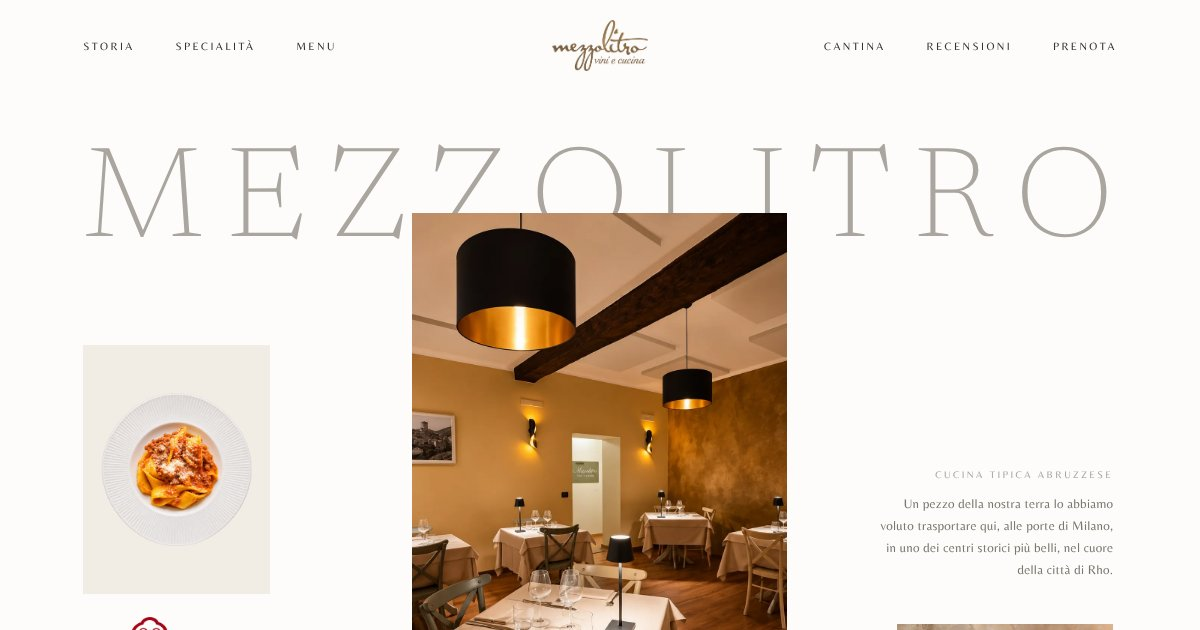
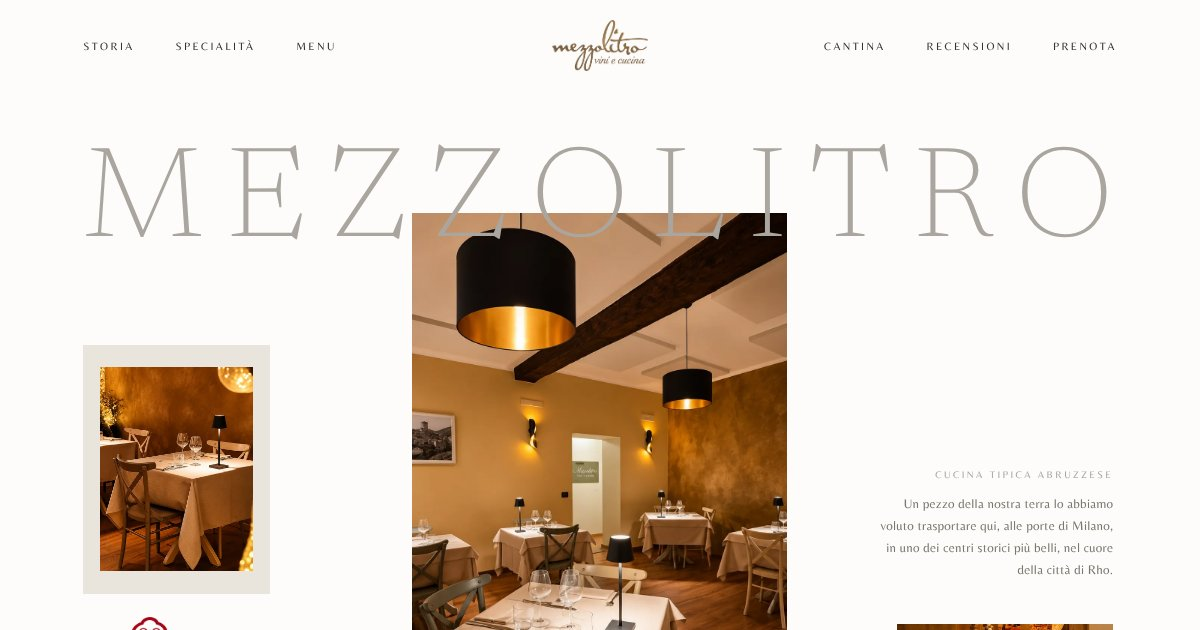
Add files via upload

diff --git a/index.html b/index.html
@@ -36,7 +36,7 @@
       <li><a href="#specialita">Specialità</a></li>
       <li><a href="#menu">Menu</a></li>
     </ul>
-    <a class="nav__logo" href="#top" aria-label="Mezzolitro vini e cucina, torna in alto"><img src="img/logo.webp" alt="Mezzolitro vini e cucina" width="900" height="476"></a>
+    <a class="nav__logo" href="#top" aria-label="Mezzolitro vini e cucina, torna in alto"><img decoding="async" src="img/logo.webp" alt="Mezzolitro vini e cucina" width="900" height="476"></a>
     <ul class="nav__r">
       <li><a href="#cantina">Cantina</a></li>
       <li><a href="#recensioni">Recensioni</a></li>
@@ -47,9 +47,12 @@
 </header>
 <div class="drawer" id="drawer" aria-hidden="true">
   <a href="#storia">La nostra storia</a>
+  <a href="#atmosfera">L’atmosfera</a>
   <a href="#specialita">Le specialità</a>
+  <a href="#dettagli">Nei dettagli</a>
   <a href="#tavola">La tavola</a>
   <a href="#menu">Il menu</a>
+  <a href="#dolci">I dolci</a>
   <a href="#cantina">La cantina</a>
   <a href="#qualita">La qualità</a>
   <a href="#recensioni">Recensioni</a>
@@ -64,13 +67,13 @@
   <h1 class="mega" id="mega" data-split data-fit aria-label="Mezzolitro">Mezzolitro</h1>
 
   <div class="hero__main par" data-speed="-0.05">
-    <figure class="ph" data-reveal><img src="img/hero.webp" alt="La sala di Mezzolitro con le luci calde e i tavoli apparecchiati" width="1000" height="1500" fetchpriority="high"></figure>
+    <figure class="ph" data-reveal><img decoding="async" src="img/hero.webp" alt="La sala di Mezzolitro con le luci calde e i tavoli apparecchiati" width="1000" height="1500" fetchpriority="high"></figure>
   </div>
 
   <div class="hero__award">
-    <figure class="ph ph--cream hero__plate" data-reveal><img src="img/dish-6.webp" alt="Pappardelle al ragù di papera" width="760" height="760"></figure>
+    <figure class="ph ph--cream hero__plate" data-reveal><img decoding="async" src="img/hero-l.webp" alt="Un tavolo apparecchiato con la lampada accesa" width="600" height="800"></figure>
     <div class="hero__awardtxt" data-up>
-      <a class="hero__mich" href="https://guide.michelin.com/en/lombardia/rho/restaurant/mezzolitro-vini-e-cucina" target="_blank" rel="noopener" aria-label="Mezzolitro nella Guida Michelin 2025, Bib Gourmand"><img src="img/michelin.webp" alt="Guida Michelin 2025, Bib Gourmand" width="700" height="488"></a>
+      <a class="hero__mich" href="https://guide.michelin.com/en/lombardia/rho/restaurant/mezzolitro-vini-e-cucina" target="_blank" rel="noopener" aria-label="Mezzolitro nella Guida Michelin 2025, Bib Gourmand"><img decoding="async" src="img/michelin.webp" alt="Guida Michelin 2025, Bib Gourmand" width="700" height="488"></a>
       <p class="tiny">Bib Gourmand<br>Guida Michelin 2025</p>
       <a class="lnk" href="#recensioni"><span>Scopri</span><i></i></a>
     </div>
@@ -79,7 +82,7 @@
   <div class="hero__txt">
     <p class="kick" data-up>Cucina tipica abruzzese</p>
     <p class="tiny r" data-up>Un pezzo della nostra terra lo abbiamo voluto trasportare qui, alle porte di Milano, in uno dei centri storici più belli, nel cuore della città di Rho.</p>
-    <figure class="ph hero__staff" data-reveal><img src="img/staff.webp" alt="Lo staff di Mezzolitro" width="1008" height="516"></figure>
+    <figure class="ph hero__staff" data-reveal><img decoding="async" src="img/hero-r.webp" alt="Calici e lampada sul tavolo, sullo sfondo la nicchia della sala" width="780" height="503"></figure>
   </div>
 </section>
 
@@ -93,10 +96,23 @@
     <p>Le ricette delle nonne, i profumi e i sapori delle case d’Abruzzo, quel lento cuocere del sugo per ore e ore rivivono da “Mezzolitro vini e cucina”, quel mezzolitro che accompagnava i piatti, preparati con rispetto e tradizione, nelle piccole cantine abruzzesi, dove, ciò che in quel momento la stagione offriva, diveniva elemento principale del piatto.</p>
     <a class="lnk" href="#menu"><span>Scopri il menu</span><i></i></a>
   </div>
-  <div class="coll">
-    <div class="par c1" data-speed="0.06"><figure class="ph" data-reveal><img src="img/storia-tavola.webp" alt="Spaghetti al sugo su un tavolo apparecchiato" width="900" height="1200" loading="lazy"></figure></div>
-    <div class="par c2" data-speed="-0.04"><figure class="ph" data-reveal><img src="img/staff.webp" alt="Il personale di Mezzolitro" width="1008" height="516" loading="lazy"></figure></div>
-    <div class="par c3" data-speed="0.03"><figure class="ph" data-reveal><img src="img/atmosfera-1.webp" alt="Un angolo della sala" width="1100" height="1100" loading="lazy"></figure></div>
+  <div class="storia__ph par" data-speed="-0.04">
+    <figure class="ph" data-reveal><img decoding="async" src="img/staff.webp" alt="Il personale di Mezzolitro" width="1008" height="516"></figure>
+    <p class="tiny storia__cap">Via Pomè 10 · Rho</p>
+  </div>
+</section>
+
+<!-- ATMOSFERA -->
+<section class="sec atm" id="atmosfera">
+  <p class="ttl ttl--s" data-split>L’</p>
+  <h2 class="ttl ttl--xl" data-split>Atmosfera</h2>
+  <div class="atm__txt" data-up>
+    <p>Vi aspettiamo, da noi sarà come sentirsi a casa, in una calda ed accogliente casa in Abruzzo.</p>
+  </div>
+  <div class="atm__coll">
+    <div class="par a1" data-speed="0.05"><figure class="ph" data-reveal><img decoding="async" src="img/atmosfera-1.webp" alt="Un angolo della sala con le luci calde" width="1100" height="1100"></figure></div>
+    <div class="par a2" data-speed="-0.04"><figure class="ph" data-reveal><img decoding="async" src="img/atmosfera-2.webp" alt="Un tavolo apparecchiato per due nella sala" width="1400" height="933"></figure></div>
+    <div class="par a3" data-speed="0.03"><figure class="ph" data-reveal><img decoding="async" src="img/hero.webp" alt="La sala con i tavoli apparecchiati" width="1000" height="1500"></figure></div>
   </div>
 </section>
 
@@ -106,16 +122,25 @@
   <h2 class="ttl ttl--m ttl--b" data-split>Specialità</h2>
   <p class="tiny spec__side" data-up>Il gusto e la tradizione della vera cucina tipica abruzzese.</p>
   <div class="row" id="specRow">
-    <div class="par" data-speed="0.04"><figure class="ph" data-reveal><img src="img/spec-ragu.webp" alt="Spaghetti al ragù con scaglie di formaggio" width="1100" height="733" loading="lazy"></figure></div>
-    <div class="par" data-speed="-0.03"><figure class="ph" data-reveal><img src="img/spec-cannolo.webp" alt="Il cannolo del Castello con zucchero a velo e cacao" width="1100" height="733" loading="lazy"></figure></div>
-    <div class="par" data-speed="0.05"><figure class="ph" data-reveal><img src="img/spec-arrosticini.webp" alt="Arrosticini di pecora con pane" width="1100" height="733" loading="lazy"></figure></div>
-    <div class="par" data-speed="-0.04"><figure class="ph" data-reveal><img src="img/dettagli.webp" alt="Il cuoco impiatta la pasta" width="900" height="1200" loading="lazy"></figure></div>
-    <div class="par" data-speed="0.03"><figure class="ph" data-reveal><img src="img/dolci-1.webp" alt="Dolce con salsa rossa e foglia di menta" width="900" height="985" loading="lazy"></figure></div>
+    <div class="par" data-speed="0.04"><figure class="ph" data-reveal><img decoding="async" src="img/spec-ragu.webp" alt="Spaghetti al ragù con scaglie di formaggio" width="1100" height="733"></figure><p class="tiny cap">La chitarra alla teramana</p></div>
+    <div class="par" data-speed="-0.03"><figure class="ph" data-reveal><img decoding="async" src="img/spec-cannolo.webp" alt="Il cannolo del Castello con zucchero a velo e cacao" width="1100" height="733"></figure><p class="tiny cap">Il cannolo del Castello</p></div>
+    <div class="par" data-speed="0.05"><figure class="ph" data-reveal><img decoding="async" src="img/spec-arrosticini.webp" alt="Arrosticini di pecora con pane" width="1100" height="733"></figure><p class="tiny cap">Le rustelle di pecora</p></div>
   </div>
   <div class="spec__cap" data-up>
     <p class="tiny c">La chitarra alla teramana con le polpettine fatte a mano, le rustelle di pecora, il cannolo del Castello.</p>
     <a class="lnk" href="#menu"><span>Vedi il menu</span><i></i></a>
   </div>
+</section>
+
+<!-- DETTAGLI -->
+<section class="sec det" id="dettagli">
+  <p class="ttl ttl--s" data-split>Nei</p>
+  <h2 class="ttl ttl--xl" data-split>Dettagli</h2>
+  <div class="det__txt" data-up>
+    <p>Piatti preparati con rispetto e tradizione, con la cura di chi cucina come in una casa d’Abruzzo.</p>
+    <a class="lnk" href="#menu"><span>Scopri il menu</span><i></i></a>
+  </div>
+  <div class="det__ph par" data-speed="-0.05"><figure class="ph" data-reveal><img decoding="async" src="img/dettagli.webp" alt="Il cuoco impiatta la pasta con la pinza" width="900" height="1200"></figure></div>
 </section>
 
 <!-- LA TAVOLA CHE GIRA -->
@@ -148,11 +173,24 @@
   <div class="menu__grid">
     <div class="menu__tabs" id="menuTabs" role="tablist" aria-label="Categorie del menu"></div>
     <div class="menu__list" id="menuList" role="tabpanel" aria-live="polite"></div>
-    <div class="menu__photo par" data-speed="0.05">
-      <figure class="ph" id="menuPh" data-reveal><img id="menuImg" src="img/qualita.webp" alt="" width="1300" height="867" loading="lazy"></figure>
-    </div>
   </div>
   <p class="tiny menu__note" data-up>Coperto € 3,00. Non realizziamo mezze porzioni. Le variazioni sul menù potrebbero avere una maggiorazione sul prezzo. La maggioranza dei piatti sopra riportati può essere realizzata anche senza glutine. Per intolleranze o allergie, informare il personale di servizio che saprà aiutarvi nella scelta.</p>
+</section>
+
+<!-- DOLCI -->
+<section class="sec dol" id="dolci">
+  <p class="ttl ttl--s" data-split>I nostri</p>
+  <h2 class="ttl ttl--xl" data-split>Dolci</h2>
+  <div class="drow">
+    <div class="par" data-speed="0.04"><figure class="ph" data-reveal><img decoding="async" src="img/dolci-1.webp" alt="Dolce con salsa rossa e foglia di menta su piastrella decorata" width="900" height="985"></figure></div>
+    <div class="par" data-speed="-0.04"><figure class="ph" data-reveal><img decoding="async" src="img/dolci-2.webp" alt="Dolce bianco con zucchero a velo e granella" width="900" height="985"></figure></div>
+    <div class="par" data-speed="0.05"><figure class="ph" data-reveal><img decoding="async" src="img/dolci-3.webp" alt="Crema con cacao in una coppa di vetro" width="900" height="900"></figure></div>
+    <div class="par" data-speed="-0.03"><figure class="ph" data-reveal><img decoding="async" src="img/dolci-4.webp" alt="Dolce fritto con zucchero a velo" width="1100" height="733"></figure></div>
+  </div>
+  <div class="dol__cap" data-up>
+    <p class="tiny c">Il pecoramisù, il fiadone di Nonna Maria, il cannolo del Castello, la torta cioccolato e mandorle.</p>
+    <a class="lnk" href="#menu"><span>Vedi la carta</span><i></i></a>
+  </div>
 </section>
 
 <!-- CANTINA -->
@@ -160,8 +198,8 @@
   <p class="ttl ttl--s" data-split>La</p>
   <h2 class="ttl ttl--xl" data-split>Cantina</h2>
   <div class="cant__coll">
-    <div class="par v1" data-speed="0.05"><figure class="ph" data-reveal><img src="img/vini-1.webp" alt="La cantina con le bottiglie nelle vetrine di legno" width="1300" height="867" loading="lazy"></figure></div>
-    <div class="par v2" data-speed="-0.05"><figure class="ph" data-reveal><img src="img/vini-2.webp" alt="Le bottiglie sul bancone della cantina" width="1300" height="867" loading="lazy"></figure></div>
+    <div class="par v1" data-speed="0.05"><figure class="ph" data-reveal><img decoding="async" src="img/vini-1.webp" alt="La cantina con le bottiglie nelle vetrine di legno" width="1300" height="867"></figure></div>
+    <div class="par v2" data-speed="-0.05"><figure class="ph" data-reveal><img decoding="async" src="img/vini-2.webp" alt="Le bottiglie sul bancone della cantina" width="1300" height="867"></figure></div>
   </div>
   <div class="cant__price" data-up>
     <p class="cant__h">I vini al calice e in caraffa</p>
@@ -191,9 +229,8 @@
     <li>Arrosticini solo di pecora</li>
   </ul>
   <div class="qual__coll">
-    <div class="par q1" data-speed="-0.05"><figure class="ph" data-reveal><img src="img/qualita.webp" alt="Tartare su ardesia con salse" width="1300" height="867" loading="lazy"></figure></div>
-    <div class="par q2" data-speed="0.05"><figure class="ph" data-reveal><img src="img/dolci-3.webp" alt="Crema con cacao in una coppa di vetro" width="900" height="900" loading="lazy"></figure></div>
-    <div class="par q3" data-speed="-0.03"><figure class="ph" data-reveal><img src="img/dolci-2.webp" alt="Dolce con zucchero a velo e granella" width="900" height="985" loading="lazy"></figure></div>
+    <div class="par q1" data-speed="-0.05"><figure class="ph" data-reveal><img decoding="async" src="img/qualita.webp" alt="Tartare su ardesia con salse" width="1300" height="867"></figure></div>
+    <div class="par q2" data-speed="0.05"><figure class="ph" data-reveal><img decoding="async" src="img/qualita-2.webp" alt="Spaghetti al sugo con calici di vino e lampada" width="900" height="1200"></figure></div>
   </div>
 </section>
 
@@ -208,11 +245,11 @@
     <a class="lnk" href="https://www.tripadvisor.com/Restaurant_Review-g608893-d13173824-Reviews-Mezzolitro_Vini_e_Cucina-Rho_Province_of_Milan_Lombardy.html" target="_blank" rel="noopener"><span>Leggi su TripAdvisor</span><i></i></a>
   </div>
   <div class="rev__awards">
-    <a class="aw aw--michelin" href="https://guide.michelin.com/en/lombardia/rho/restaurant/mezzolitro-vini-e-cucina" target="_blank" rel="noopener" aria-label="Guida Michelin 2025, Bib Gourmand"><img src="img/michelin.webp" alt="Guida Michelin 2025" width="700" height="488" loading="lazy"></a>
+    <a class="aw aw--michelin" href="https://guide.michelin.com/en/lombardia/rho/restaurant/mezzolitro-vini-e-cucina" target="_blank" rel="noopener" aria-label="Guida Michelin 2025, Bib Gourmand"><img decoding="async" src="img/michelin.webp" alt="Guida Michelin 2025" width="700" height="488"></a>
     <div class="rev__fine">
-      <a class="aw" href="https://www.tripadvisor.com/Restaurant_Review-g608893-d13173824-Reviews-Mezzolitro_Vini_e_Cucina-Rho_Province_of_Milan_Lombardy.html" target="_blank" rel="noopener" aria-label="TripAdvisor Travelers’ Choice Awards 2024"><img src="img/tripadvisor.webp" alt="TripAdvisor Travelers’ Choice Awards 2024" width="520" height="505" loading="lazy"></a>
-      <span class="aw aw--guru"><img src="img/guru.webp" alt="Restaurant Guru 2023, miglior ristorante italiano a Rho" width="520" height="733" loading="lazy"></span>
-      <a class="aw" href="https://www.celiachia.it" target="_blank" rel="noopener" aria-label="AIC, alimentazione fuori casa senza glutine 2025"><img src="img/glutine.webp" alt="AIC Alimentazione Fuori Casa 2025, qui alimenti senza glutine" width="600" height="424" loading="lazy"></a>
+      <a class="aw" href="https://www.tripadvisor.com/Restaurant_Review-g608893-d13173824-Reviews-Mezzolitro_Vini_e_Cucina-Rho_Province_of_Milan_Lombardy.html" target="_blank" rel="noopener" aria-label="TripAdvisor Travelers’ Choice Awards 2024"><img decoding="async" src="img/tripadvisor.webp" alt="TripAdvisor Travelers’ Choice Awards 2024" width="520" height="505"></a>
+      <span class="aw aw--guru"><img decoding="async" src="img/guru.webp" alt="Restaurant Guru 2023, miglior ristorante italiano a Rho" width="520" height="733"></span>
+      <a class="aw" href="https://www.celiachia.it" target="_blank" rel="noopener" aria-label="AIC, alimentazione fuori casa senza glutine 2025"><img decoding="async" src="img/glutine.webp" alt="AIC Alimentazione Fuori Casa 2025, qui alimenti senza glutine" width="600" height="424"></a>
     </div>
   </div>
 </section>
@@ -222,13 +259,13 @@
   <p class="ttl ttl--s" data-split>Prenota</p>
   <h2 class="ttl ttl--l" data-split>Il tuo tavolo</h2>
   <div class="book__txt" data-up>
-    <p>Vi aspettiamo, da noi sarà come sentirsi a casa, in una calda ed accogliente casa in Abruzzo.</p>
+    <p>Vi aspettiamo, da noi sarà come sentirsi a casa.</p>
     <div class="book__links">
       <a class="lnk lnk--big" href="tel:+390291327868" id="callMain"><span>Chiama +39 02 9132 7868</span><i></i></a>
       <a class="lnk lnk--big" href="https://www.google.com/maps/search/?api=1&amp;query=Mezzolitro+vini+e+cucina+via+Pom%C3%A8+10+Rho" target="_blank" rel="noopener"><span>Prenota su Google</span><i></i></a>
     </div>
   </div>
-  <div class="book__ph par" data-speed="-0.05"><figure class="ph" data-reveal><img src="img/atmosfera-2.webp" alt="Un tavolo apparecchiato per due nella sala" width="1400" height="933" loading="lazy"></figure></div>
+  <div class="book__ph par" data-speed="-0.05"><figure class="ph" data-reveal><img decoding="async" src="img/atmosfera-2.webp" alt="Un tavolo apparecchiato per due nella sala" width="1400" height="933"></figure></div>
 </section>
 
 <!-- DOVE SIAMO -->
@@ -236,7 +273,7 @@
   <p class="ttl ttl--s" data-split>Dove</p>
   <h2 class="ttl ttl--l" data-split>Siamo</h2>
   <div class="dove__map" data-reveal-box>
-    <iframe title="Mappa di Mezzolitro vini e cucina, via Pomè 10, Rho" loading="lazy" referrerpolicy="no-referrer-when-downgrade" src="https://maps.google.com/maps?q=Mezzolitro%20vini%20e%20cucina%2C%20Via%20Pom%C3%A8%2010%2C%20Rho&amp;z=16&amp;output=embed"></iframe>
+    <iframe title="Mappa di Mezzolitro vini e cucina, via Pomè 10, Rho" referrerpolicy="no-referrer-when-downgrade" src="https://maps.google.com/maps?q=Mezzolitro%20vini%20e%20cucina%2C%20Via%20Pom%C3%A8%2010%2C%20Rho&amp;z=16&amp;output=embed"></iframe>
   </div>
   <div class="dove__info" data-up>
     <p class="dove__addr">Via Pomè 10<br>20017 Rho (MI)</p>

diff --git a/style.css b/style.css
@@ -459,3 +459,118 @@ button{font:inherit;color:inherit;background:none;border:0;cursor:pointer;paddin
 .rm [data-split] .ch>span{transform:none!important}
 .no-js .ph img{clip-path:none;transform:none}
 .no-js [data-up]{opacity:1;transform:none}
+
+/* ===== sezioni per foto: storia, atmosfera, specialità, dettagli, dolci, qualità ===== */
+/* titolo hero davanti alla foto */
+.hero .mega{z-index:6}
+.ph{background:#e9e4dc}
+
+/* storia: una sola foto */
+.storia{padding-bottom:20px}
+.storia__ph{position:relative;margin-top:40px}
+.storia__ph .ph{aspect-ratio:1.95}
+.storia__ph::before{content:"";position:absolute;inset:14px -10px -14px 10px;border:1px solid rgba(55,51,46,.22);z-index:-1}
+.storia__cap{position:absolute;right:0;top:calc(100% + 24px);margin:0;text-align:right;letter-spacing:.2em;text-transform:uppercase;font-size:11px;white-space:nowrap}
+.storia{padding-bottom:60px}
+
+/* atmosfera */
+.atm{padding:70px var(--pad) 10px}
+.atm .ttl--xl{margin-top:8px;font-size:clamp(30px,9.4vw,100px)}
+.atm__txt{margin-top:26px;max-width:420px;color:var(--mute);line-height:1.75}
+.atm__coll{position:relative;margin-top:40px;aspect-ratio:1/1.25}
+.atm__coll>.par{position:absolute}
+.a1{left:0;top:0;width:52%}.a1 .ph{aspect-ratio:4/5}
+.a3{right:0;top:6%;width:38%}.a3 .ph{aspect-ratio:2/3}
+.a2{left:12%;top:56%;width:74%}.a2 .ph{aspect-ratio:3/2}
+
+/* specialità: tre foto con didascalia */
+.row{grid-template-columns:repeat(2,1fr)}
+.row .cap{margin-top:12px;letter-spacing:.14em;text-transform:uppercase;font-size:11px;color:var(--mute)}
+.row>.par:nth-child(3){grid-column:1/-1;width:62%;margin:0 auto}
+.row>.par:nth-child(3){margin-top:14px}
+
+/* dettagli */
+.det{padding:70px var(--pad) 10px}
+.det .ttl--xl{margin-top:8px;font-size:clamp(30px,10.4vw,100px)}
+.det__txt{margin-top:26px;max-width:420px;display:flex;flex-direction:column;gap:16px;color:var(--mute);line-height:1.75}
+.det__txt .lnk{align-self:flex-start}
+.det__ph{margin:40px 0 0 auto;width:76%;position:relative}
+.det__ph .ph{aspect-ratio:3/4}
+.det__ph::before{content:"";position:absolute;inset:-14px 14px 14px -14px;border:1px solid rgba(55,51,46,.22);z-index:-1}
+
+/* dolci */
+.dol{padding:70px var(--pad) 10px}
+.dol .ttl--xl{margin-top:8px}
+.drow{display:grid;grid-template-columns:repeat(2,1fr);gap:14px;margin-top:36px;align-items:start}
+.drow>.par:nth-child(even){margin-top:42px}
+.drow .ph{aspect-ratio:1/1.12}
+.dol__cap{margin-top:46px;display:flex;flex-direction:column;align-items:center;gap:20px;text-align:center}
+
+/* qualità: due foto */
+.qual__coll{aspect-ratio:1/1.15}
+.q1{left:0;top:0;width:78%}.q1 .ph{aspect-ratio:3/2}
+.q2{right:0;top:30%;width:48%}.q2 .ph{aspect-ratio:3/4}
+
+/* menu senza foto */
+.menu__photo{display:none!important}
+
+@media (min-width:900px){
+  .hero .mega{z-index:6}
+  /* storia */
+  .storia{height:calc(var(--u) * 450);padding:0}
+  .storia__ph{position:absolute;left:calc(var(--u) * 330);top:calc(var(--u) * 150);width:calc(var(--u) * 338);margin:0}
+  .storia__cap{top:calc(100% + var(--u) * 14);font-size:max(10px,calc(var(--u) * 4.2))}
+  /* atmosfera */
+  .atm{height:calc(var(--u) * 520);padding:0}
+  .atm .ttl--s{position:absolute;left:calc(var(--u) * 51);top:calc(var(--u) * 12)}
+  .atm .ttl--xl{position:absolute;left:calc(var(--u) * 52);top:calc(var(--u) * 40);margin:0;font-size:calc(var(--u) * 68)}
+  .atm__txt{position:absolute;left:calc(var(--u) * 392);top:calc(var(--u) * 150);width:calc(var(--u) * 276);margin:0;max-width:none;font-size:max(13px,calc(var(--u) * 5.8))}
+  .atm__coll{position:absolute;left:calc(var(--u) * 50);top:0;width:calc(var(--u) * 618);height:calc(var(--u) * 500);margin:0;aspect-ratio:auto}
+  .a1{left:0;top:calc(var(--u) * 150);width:calc(var(--u) * 170)}.a1 .ph{aspect-ratio:4/5}
+  .a2{left:calc(var(--u) * 190);top:calc(var(--u) * 240);width:calc(var(--u) * 250)}.a2 .ph{aspect-ratio:3/2}
+  .a3{left:calc(var(--u) * 470);top:calc(var(--u) * 250);right:auto;width:calc(var(--u) * 148)}.a3 .ph{aspect-ratio:2/3}
+  /* specialità */
+  .spec{height:calc(var(--u) * 520)}
+  .row{grid-template-columns:repeat(3,1fr);gap:calc(var(--u) * 20)}
+  .row>.par:nth-child(3){grid-column:auto;width:auto;margin:0}
+  .row>.par:nth-child(even){margin-top:calc(var(--u) * 51)}
+  .row .ph{aspect-ratio:1/1.1}
+  .row .cap{margin-top:calc(var(--u) * 8);font-size:max(10px,calc(var(--u) * 4.2))}
+  .spec__cap{top:calc(var(--u) * 450)}
+  /* dettagli */
+  .det{height:calc(var(--u) * 450);padding:0}
+  .det .ttl--s{position:absolute;left:calc(var(--u) * 51);top:calc(var(--u) * 12)}
+  .det .ttl--xl{position:absolute;left:calc(var(--u) * 52);top:calc(var(--u) * 40);margin:0;font-size:calc(var(--u) * 68)}
+  .det__txt{position:absolute;left:calc(var(--u) * 77);top:calc(var(--u) * 170);width:calc(var(--u) * 230);margin:0;max-width:none;font-size:max(13px,calc(var(--u) * 5.8))}
+  .det__ph{position:absolute;left:calc(var(--u) * 400);top:calc(var(--u) * 130);width:calc(var(--u) * 218);margin:0}
+  /* menu a due colonne */
+  .menu__grid{grid-template-columns:calc(var(--u) * 112) 1fr}
+  /* dolci */
+  .dol{height:calc(var(--u) * 470);padding:0}
+  .dol .ttl--s{position:absolute;left:calc(var(--u) * 51);top:calc(var(--u) * 12)}
+  .dol .ttl--xl{position:absolute;left:calc(var(--u) * 52);top:calc(var(--u) * 40);margin:0}
+  .drow{position:absolute;left:calc(var(--u) * 50);top:calc(var(--u) * 140);width:calc(var(--u) * 618);grid-template-columns:repeat(4,1fr);gap:calc(var(--u) * 14);margin:0}
+  .drow>.par:nth-child(even){margin-top:calc(var(--u) * 40)}
+  .dol__cap{position:absolute;left:calc(var(--u) * 150);top:calc(var(--u) * 396);width:calc(var(--u) * 420);margin:0}
+  /* qualità */
+  .q1{left:0;top:calc(var(--u) * 150);width:calc(var(--u) * 300)}.q1 .ph{aspect-ratio:3/2}
+  .q2{left:calc(var(--u) * 150);top:calc(var(--u) * 372);right:auto;width:calc(var(--u) * 150)}.q2 .ph{aspect-ratio:3/4}
+}
+@media (min-width:600px) and (max-width:899px){
+  .row{grid-template-columns:repeat(3,1fr)}
+  .row>.par:nth-child(3){grid-column:auto;width:auto;margin:0}
+  .row>.par:nth-child(3n+2){margin-top:40px}
+  .drow{grid-template-columns:repeat(4,1fr)}
+  .drow>.par:nth-child(even){margin-top:40px}
+  .storia__ph,.det__ph{max-width:560px}
+}
+/* correzioni mobile: nessuna foto sopra un'altra */
+.qual__coll{aspect-ratio:1/1.3}
+.q2{top:46%}
+.cant__coll{aspect-ratio:1/1.3}
+.v2{top:48%}
+@media (min-width:900px){
+  .qual__coll,.cant__coll{aspect-ratio:auto}
+  .q2{top:calc(var(--u) * 372)}
+  .v2{top:calc(var(--u) * 160)}
+}

diff --git a/script.js b/script.js
@@ -167,7 +167,6 @@
         if (k) { e.preventDefault(); var n = (cur + k + D.menu.length) % D.menu.length; renderMenu(n, true); $$('button', menuTabs)[n].focus(); }
       });
       menuTabs.appendChild(b);
-      var im = new Image(); im.src = 'img/' + c.img + '.webp';
     });
     renderMenu(0, false);
   }
